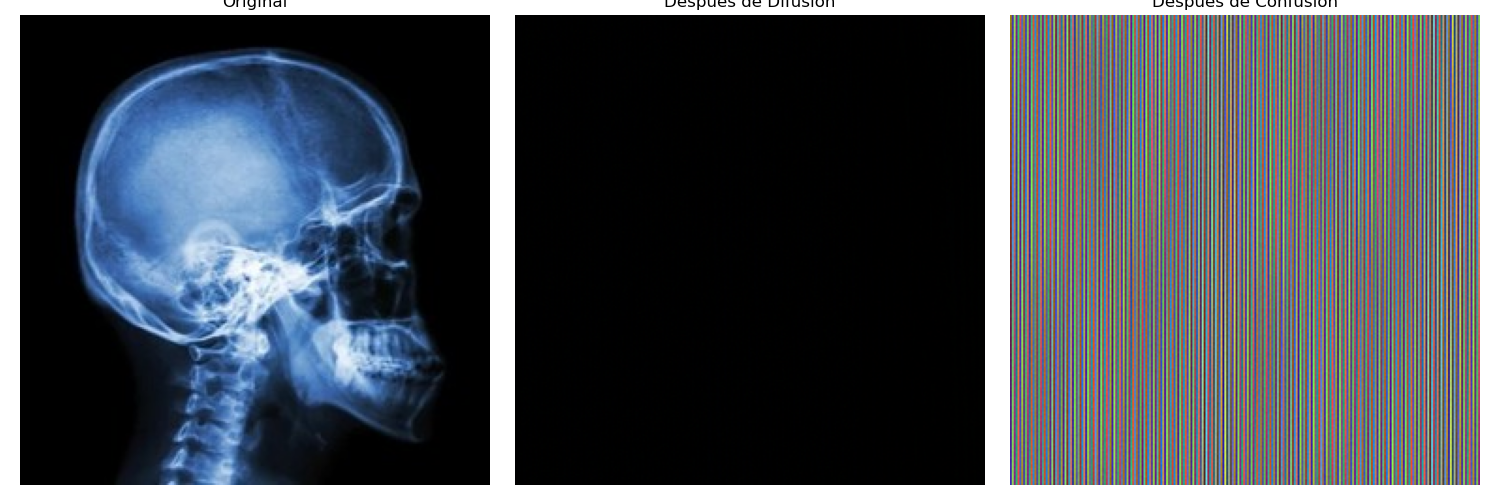
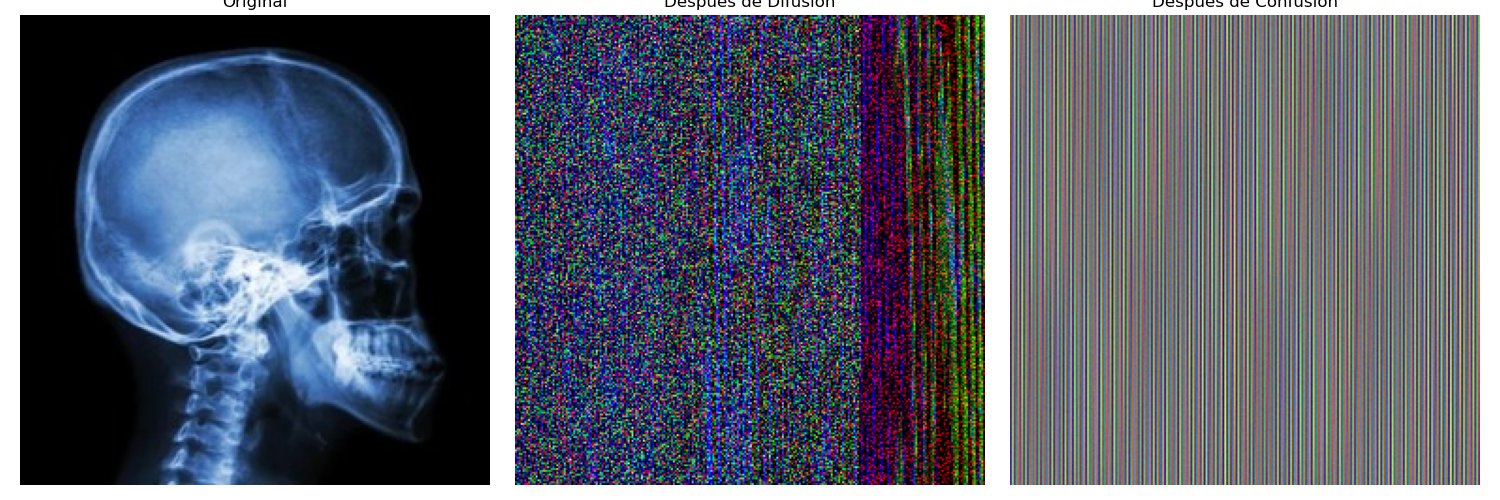
Actualizacion

Changed region(s): [[0.3373, 0.03, 0.6747, 0.99]]

diff --git a/Maestro_TLS_Keystream_XYZ.py b/Maestro_TLS_Keystream_XYZ.py
@@ -15,6 +15,7 @@ from PIL import Image
 BROKER = "raspberrypiJED.local"
 PORT = 8883
 QOS = 1
+
 USERNAME = "usuario1"
 PASSWORD = "qwerty123"
 TOPIC_KEYS = "chaoskeystream/keys"
@@ -291,41 +292,53 @@ def preparar_payload(vector_cifrado, x_master, y_maestro, z_master, t_maestro, a
     }
     return data
 
-def graficas(imagen, difusion, vector_cifrado, ancho, alto):
+def graficas(difusion_x, vector_cifrado, ancho, alto):
     """
-    Genera y guarda la figura comparativa:
-    original, después de difusión y después de confusión.
+    Genera y guarda por separado las imágenes después de difusión y después de confusión.
+    
+    Parámetros:
+    ----------
+    difusion_x : np.ndarray
+        Vector de difusión SIN escalar (antes de aplicar IMG_SCALE)
+    vector_cifrado : np.ndarray
+        Vector cifrado después de aplicar confusión
+    ancho : int
+        Ancho de la imagen
+    alto : int
+        Alto de la imagen
     """
-    plt.figure(figsize=(15, 5))
-
-    # Original
-    plt.subplot(1, 3, 1)
-    plt.imshow(imagen)
-    plt.title("Original")
-    plt.axis("off")
-
-    # Después de difusión
-    difusion_img = np.clip(difusion, 0.0, 1.0)
-    difusion_img = np.round(difusion_img*255.0).astype(np.uint8).reshape((alto, ancho, 3), order = 'F')
-    plt.subplot(1, 3, 2)
+    # ===== IMAGEN DESPUÉS DE DIFUSIÓN =====
+    plt.figure(figsize=(6, 6))
+    difusion_img = np.clip(difusion_x, 0.0, 1.0)
+    difusion_img = np.round(difusion_img * 255.0).astype(np.uint8).reshape((alto, ancho, 3), order='F')
     plt.imshow(difusion_img)
-    plt.title("Después de Difusión")
+    plt.title("Difusión")
     plt.axis("off")
-
-    # Después de confusión (pseudo-imagen)
+    plt.tight_layout()
+    
+    # Guardar imagen de difusión
+    ruta_difusion = CARPETA_CIFRADO / "Imagen_Difusion.png"
+    plt.savefig(ruta_difusion)
+    plt.close()
+    print(f"[GRAFICA] Imagen de difusión guardada en {ruta_difusion}")
+    
+    # ===== IMAGEN DESPUÉS DE CONFUSIÓN =====
+    plt.figure(figsize=(6, 6))
     cifrado_norm = (vector_cifrado - np.min(vector_cifrado)) / (
         np.max(vector_cifrado) - np.min(vector_cifrado) + 1e-12
     )
     cifrado_img = np.clip(cifrado_norm, 0.0, 1.0)
-    cifrado_img = np.round(cifrado_img*255.0).astype(np.uint8).reshape((alto, ancho, 3), order = 'F')
-    plt.subplot(1, 3, 3)
+    cifrado_img = np.round(cifrado_img * 255.0).astype(np.uint8).reshape((alto, ancho, 3), order='F')
     plt.imshow(cifrado_img)
-    plt.title("Después de Confusión")
+    plt.title("Confusión")
     plt.axis("off")
-
     plt.tight_layout()
-    plt.savefig(RUTA_IMAGEN_CIFRADA)
-    print(f"Resultados del proceso completo guardados en {RUTA_IMAGEN_CIFRADA}")
+    
+    # Guardar imagen de confusión
+    ruta_confusion = CARPETA_CIFRADO / "Imagen_Confusion.png"
+    plt.savefig(ruta_confusion)
+    plt.close()
+    print(f"[GRAFICA] Imagen de confusión guardada en {ruta_confusion}")
 
 def graficar_series_vectores(difusion, vector_logistico, x_conf):
     plt.figure(figsize=(12, 8))
@@ -500,10 +513,10 @@ def main():
     )
 
     # 6. Generar gráficas
-    graficas(imagen, difusion, vector_cifrado, ancho, alto)
+    graficas(difusion_x, vector_cifrado, ancho, alto)
     graficar_dispersion(imagen, vector_cifrado)
     graficar_hamming(imagen, vector_cifrado, ancho, alto)
-    graficar_series_vectores(difusion, vector_logistico, x_key)
+    graficar_series_vectores(difusion_x, vector_logistico, x_key)
     graficar_vector_cifrado(vector_cifrado)
 
     print("[PROGRAMA] Proceso de cifrado completado")
